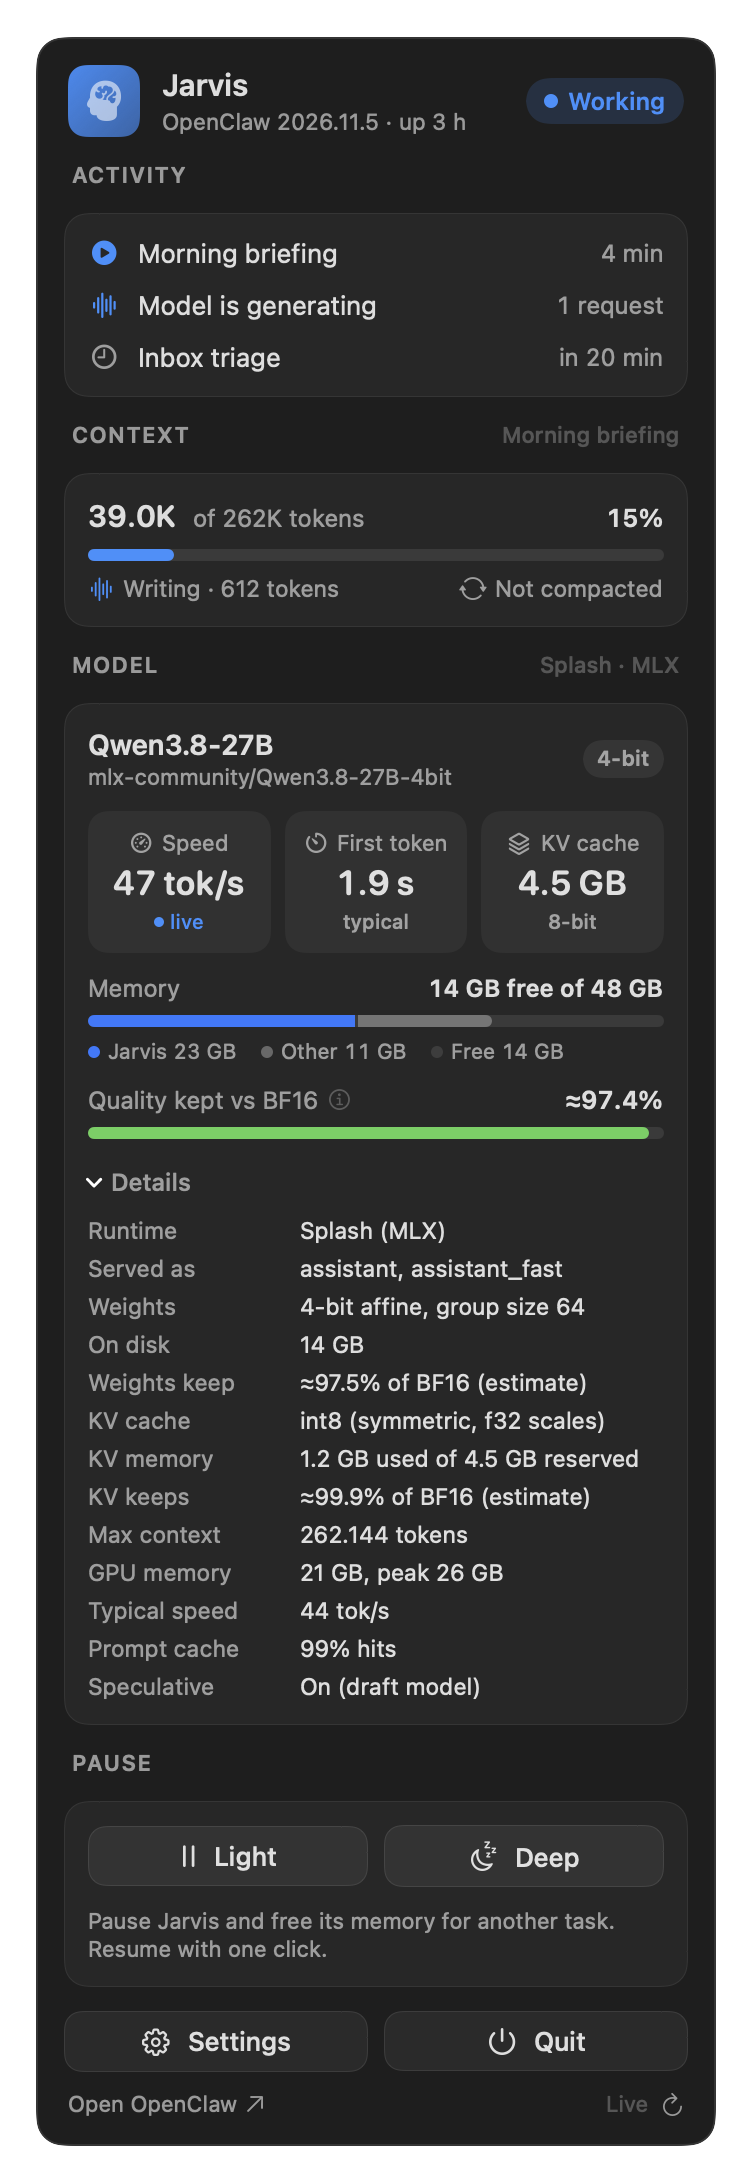
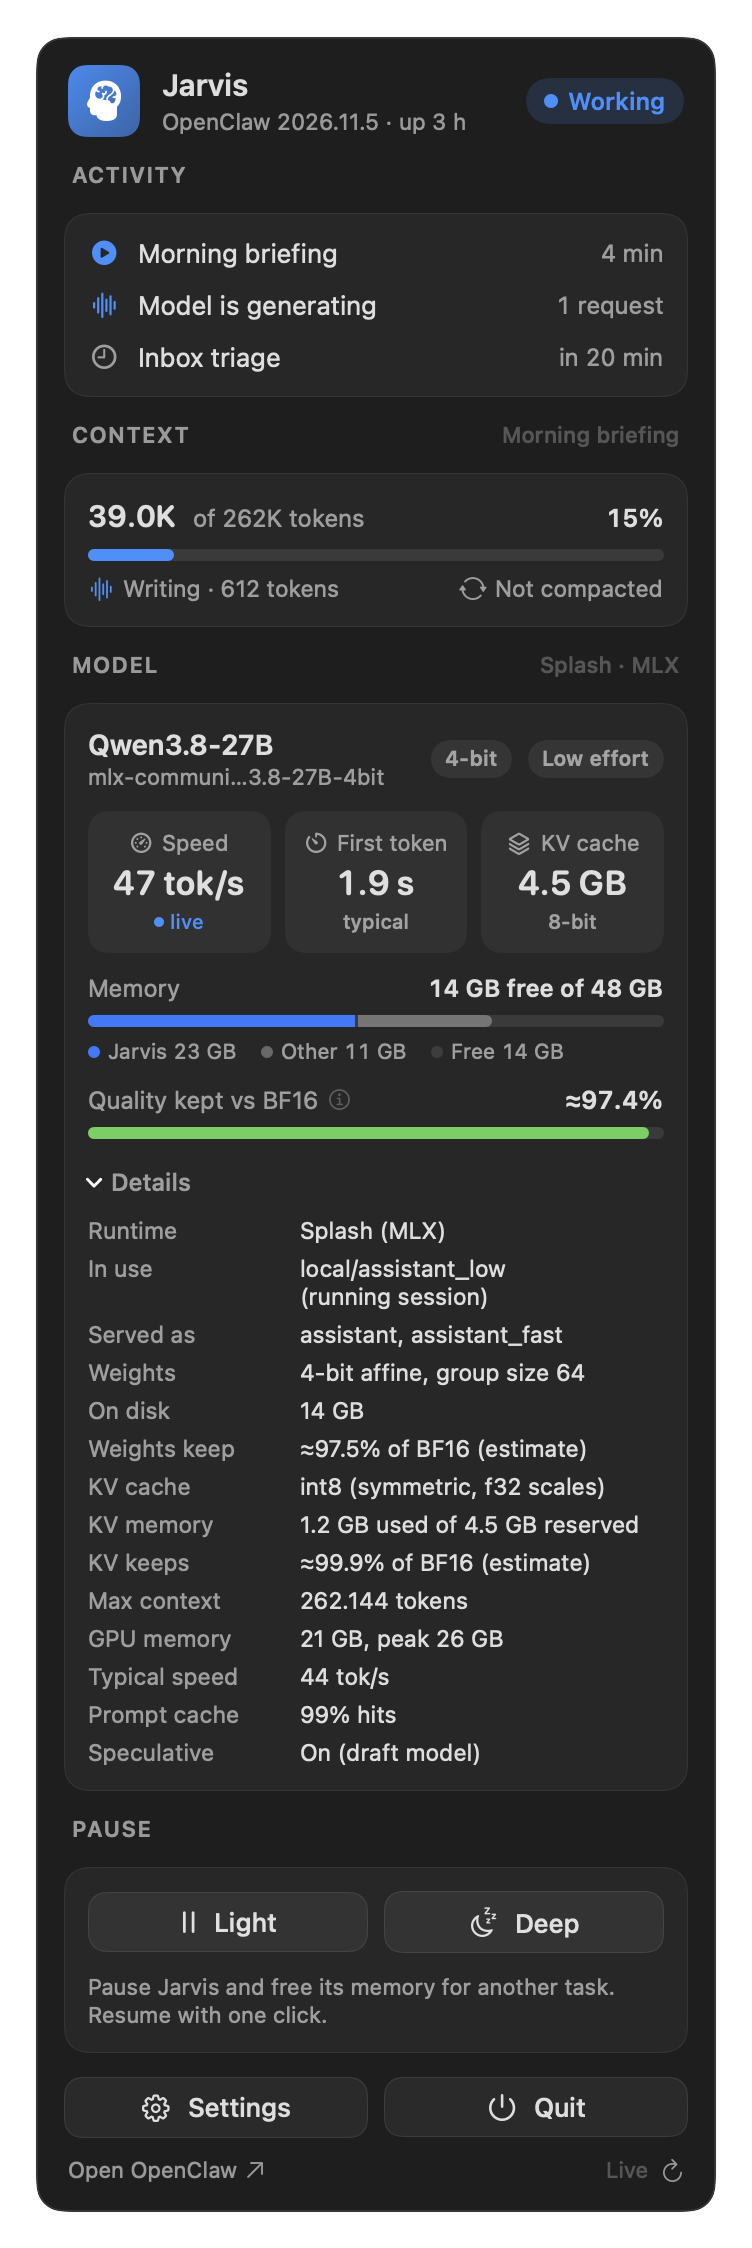
Show the model in use and its thinking effort

diff --git a/Sources/Live.swift b/Sources/Live.swift
@@ -13,6 +13,9 @@ struct SessionInfo {
     let contextTokens: Double?   // the session's context window
     let compactions: Int
     let updatedAt: Date
+    var model: String? = nil       // the alias OpenClaw asked for, e.g. "jarvis_flash_high"
+    var provider: String? = nil    // e.g. "splash-flash"
+    var thinking: String? = nil    // effort: off, minimal, low, medium, high, xhigh
 }
 
 /// Where OpenClaw keeps the agent's session store. Asked once from `openclaw sessions --json` (its "path"),
@@ -55,7 +58,9 @@ func readSessions(_ path: String, limit: Int = 30) -> [SessionInfo]? {
                                totalTokens: fresh ? num(j(entry, "totalTokens")) : nil,
                                contextTokens: num(j(entry, "contextTokens")),
                                compactions: Int(num(j(entry, "compactionCount")) ?? 0),
-                               updatedAt: Date(timeIntervalSince1970: updated)))
+                               updatedAt: Date(timeIntervalSince1970: updated),
+                               model: j(entry, "model") as? String, provider: j(entry, "modelProvider") as? String,
+                               thinking: j(entry, "thinkingLevel") as? String))
     }
     return out
 }
@@ -95,6 +100,31 @@ func formatTokens(_ t: Double) -> String {
     if t >= 100_000 { return String(format: "%.0fK", t / 1000) }
     if t >= 1000 { return String(format: "%.1fK", t / 1000) }
     return String(Int(t))
+}
+
+/// Which model is in use and at what effort: the running session's model and thinking level, else the
+/// default model and OpenClaw's default thinking level.
+struct ActiveModel {
+    let alias: String?         // "provider/model" as OpenClaw names it
+    let baseURL: String?
+    let effort: String?
+    let fromSession: Bool
+}
+
+func activeModel(_ sessions: [SessionInfo], _ r: Resolved) -> ActiveModel {
+    if let s = sessions.first(where: { $0.running }), let p = s.provider, let m = s.model {
+        return ActiveModel(alias: "\(p)/\(m)", baseURL: r.providers[p] ?? r.providerBaseURL,
+                           effort: s.thinking ?? r.thinkingDefault, fromSession: true)
+    }
+    return ActiveModel(alias: r.primaryModel, baseURL: r.providerBaseURL, effort: r.thinkingDefault, fromSession: false)
+}
+
+func effortLabel(_ e: String) -> String {
+    switch e.lowercased() {
+    case "off", "none": return "Thinking off"
+    case "xhigh": return "XHigh effort"
+    default: return e.prefix(1).uppercased() + e.dropFirst() + " effort"
+    }
 }
 
 // MARK: - Mac memory

diff --git a/Sources/CLI.swift b/Sources/CLI.swift
@@ -6,15 +6,17 @@ func probeOnce(_ r: Resolved, sampleSpeed: Bool = true) -> Snapshot {
     var s = Snapshot()
     s.gateway = probeGateway(r.gatewayURL, withReadiness: true)
     s.activity = s.gateway.live ? probeActivity(cli: r.cli, env: r.cliEnv) : ActivityStatus()
-    s.model = probeModel(baseURL: r.providerBaseURL, configuredModel: r.primaryModel)
+    if s.gateway.live, let path = sessionStorePath(cli: r.cli, env: r.cliEnv) { s.sessions = readSessions(path) ?? [] }
+    let active = activeModel(s.sessions, r)
+    s.active = active
+    s.model = probeModel(baseURL: active.baseURL, configuredModel: active.alias)
     s.offload = readOffloadState(r.pauseMarker)
     s.memory = systemMemory()
-    if s.gateway.live, let path = sessionStorePath(cli: r.cli, env: r.cliEnv) { s.sessions = readSessions(path) ?? [] }
     s.updatedAt = Date()
     if sampleSpeed && s.model.requests.contains(where: { $0.phase == "decode" }) {
         Thread.sleep(forTimeInterval: 1)
         var next = s
-        next.model = probeModel(baseURL: r.providerBaseURL, configuredModel: r.primaryModel)
+        next.model = probeModel(baseURL: active.baseURL, configuredModel: active.alias)
         next.updatedAt = Date()
         next.liveTokensPerSecond = liveSpeed(previous: s, current: next)
         s = next
@@ -54,6 +56,11 @@ func statusJSON(name: String, kind: Kind, _ s: Snapshot, offloadConfigured: Bool
     let m = s.model
     var model: [String: Any] = ["reachable": m.reachable, "runtime": m.runtime, "activeRequests": m.activeRequests]
     if let id = m.modelID { model["id"] = id }
+    if let a = s.active {
+        if let alias = a.alias { model["requestedAs"] = alias }
+        if let e = a.effort { model["effort"] = e }
+        model["activeFromSession"] = a.fromSession
+    }
     if !m.servedNames.isEmpty { model["servedAs"] = m.servedNames }
     var weights: [String: Any] = [:]
     if let l = m.weightsLabel { weights["label"] = l }
@@ -139,6 +146,7 @@ func statusText(name: String, kind: Kind, _ s: Snapshot, offloadConfigured: Bool
     out.append("Model")
     if m.reachable {
         out.append("  \(m.modelID ?? "unknown") · \(m.runtime)\(m.activeRequests > 0 ? " · generating" : "")")
+        if let a = s.active { out.append("  In use: \(a.alias ?? "default")" + (a.effort.map { " · \(effortLabel($0).lowercased())" } ?? "")) }
         var w = "  Weights: \(m.weightsLabel ?? "quantization unknown")"
         if let d = m.weightsOnDisk { w += " · \(formatBytes(d)) on disk" }
         out.append(w)

diff --git a/Sources/Panel.swift b/Sources/Panel.swift
@@ -166,7 +166,8 @@ struct PanelView: View {
                 InfoRow(icon: m.modelID == nil ? "questionmark.circle" : "cloud",
                         title: m.modelID.map(shortModelName) ?? "No local model found")
                 Text(m.modelID == nil ? "Looking for the model server of your default OpenClaw model."
-                                      : "Model server: \(m.runtime)")
+                     : (store.snap.active?.fromSession == true ? "Not loaded right now; it loads when the next request arrives."
+                                                               : "Model server: \(m.runtime)"))
                     .font(.system(size: 11)).foregroundStyle(.secondary).fixedSize(horizontal: false, vertical: true)
                 memoryRow(m)
             } else {
@@ -180,6 +181,7 @@ struct PanelView: View {
                     }
                     Spacer(minLength: 4)
                     if let b = m.weightsBits { Badge(text: b >= 16 ? "BF16" : "\(Int(b))-bit") }
+                    if let e = store.snap.active?.effort { Badge(text: effortLabel(e)).help("Thinking effort of the model in use") }
                     if let note = m.note { Badge(text: note) }
                 }
                 HStack(spacing: 7) {
@@ -253,6 +255,9 @@ struct PanelView: View {
 
     @ViewBuilder private func detailRows(_ m: ModelStatus) -> some View {
         DetailRow(label: "Runtime", value: m.runtime)
+        if let a = store.snap.active?.alias {
+            DetailRow(label: "In use", value: a + (store.snap.active?.fromSession == true ? " (running session)" : " (default)"))
+        }
         if !m.servedNames.isEmpty { DetailRow(label: "Served as", value: m.servedNames.joined(separator: ", ")) }
         DetailRow(label: "Weights", value: m.weightsLabel ?? "unknown")
         if let d = m.weightsOnDisk { DetailRow(label: "On disk", value: formatBytes(d)) }

diff --git a/Sources/Config.swift b/Sources/Config.swift
@@ -92,6 +92,10 @@ struct Resolved {
     let providerBaseURL: String?     // e.g. http://127.0.0.1:8000/v1
     let dashboard: [String]?
     let offload: OffloadConfig?
+    /// provider id -> baseUrl, from openclaw.json (several local models can sit behind one router).
+    let providers: [String: String]
+    /// agents.defaults.thinkingDefault: the effort used when a session does not set its own.
+    let thinkingDefault: String?
 
     var offloadConfigured: Bool { offload?.light != nil || offload?.deep != nil || offload?.restore != nil }
 
@@ -128,13 +132,19 @@ struct Resolved {
         let cli = cliCandidates.first { fm.isExecutableFile(atPath: $0) }
         let dashboard = (c.dashboardCommand?.isEmpty == false ? c.dashboardCommand : nil) ?? cli.map { [$0, "dashboard"] }
 
+        var providers: [String: String] = [:]
+        for (id, v) in (j(oc, "models", "providers") as? [String: Any]) ?? [:] {
+            if let u = j(v, "baseUrl") as? String { providers[id] = u }
+        }
+        let thinking = j(oc, "agents", "defaults", "thinkingDefault") as? String
+
         return Resolved(name: blank(c.name) ?? "Jarvis",
                         refreshSeconds: min(max(c.refreshSeconds ?? 1, 1), 3600),
                         menuBarText: c.menuBarText ?? false,
                         checkForUpdates: c.checkForUpdates ?? true,
                         gatewayURL: (gateway ?? "http://127.0.0.1:18789").trimmingCharacters(in: CharacterSet(charactersIn: "/")),
                         cli: cli, openclawConfigPath: cfgPath, primaryModel: primary, providerBaseURL: base,
-                        dashboard: dashboard, offload: c.offload)
+                        dashboard: dashboard, offload: c.offload, providers: providers, thinkingDefault: thinking)
     }
 
     /// Environment for CLI calls, so a non-default OpenClaw config is honoured.

diff --git a/Sources/Store.swift b/Sources/Store.swift
@@ -7,6 +7,7 @@ struct Snapshot {
     var model = ModelStatus()
     var offload = OffloadState()
     var sessions: [SessionInfo] = []
+    var active: ActiveModel?
     var memory: SystemMemory?
     /// Tokens per second measured between the last two refreshes while the model was writing.
     var liveTokensPerSecond: Double?
@@ -210,11 +211,13 @@ final class Store: ObservableObject {
             s.gateway = probeGateway(cfg.gatewayURL, withReadiness: wantReady)
             if !wantReady { s.gateway.ready = previous.gateway.ready; s.gateway.failing = previous.gateway.failing }
             if wantJobs { s.activity = s.gateway.live ? probeActivity(cli: cfg.cli, env: cfg.cliEnv) : ActivityStatus() }
-            s.model = probeModel(baseURL: cfg.providerBaseURL, configuredModel: cfg.primaryModel)
-            s.offload = readOffloadState(cfg.pauseMarker)
-            s.memory = systemMemory()
             if wantStore, s.gateway.live { storePath = sessionStorePath(cli: cfg.cli, env: cfg.cliEnv) }
             s.sessions = storePath.flatMap { readSessions($0) } ?? []
+            let active = activeModel(s.sessions, cfg)
+            s.active = active
+            s.model = probeModel(baseURL: active.baseURL, configuredModel: active.alias)
+            s.offload = readOffloadState(cfg.pauseMarker)
+            s.memory = systemMemory()
             s.updatedAt = Date()
             s.liveTokensPerSecond = liveSpeed(previous: previous, current: s)
             let latest = wantUpdate ? latestReleaseTag(repo: repoSlug) : nil

diff --git a/Sources/Showcase.swift b/Sources/Showcase.swift
@@ -48,6 +48,7 @@ func demoSnapshot() -> Snapshot {
                     contextTokens: 262_144, compactions: 1, updatedAt: now.addingTimeInterval(-600)),
     ]
     s.memory = SystemMemory(total: 51_539_607_552, used: 36.4e9)
+    s.active = ActiveModel(alias: "local/assistant_low", baseURL: nil, effort: "low", fromSession: true)
     s.updatedAt = now
     return s
 }

diff --git a/README.md b/README.md
@@ -19,7 +19,8 @@ with [OpenClaw](https://docs.openclaw.ai) and a local model. Click the icon and 
   reading the prompt or writing, and whether the conversation has been compacted.
 - **How fast, and at what cost?** Live tokens per second, time to first token, and your Mac's memory split
   into the assistant, other apps and what is still free.
-- **What exactly is loaded?** The model, its weight and KV-cache quantization, and an estimate of how much
+- **What exactly is loaded?** The model in use right now and its thinking effort (also with several
+  models behind one router), its weight and KV-cache quantization, and an estimate of how much
   quality that quantization keeps compared with the full BF16 model.
 - **Need the memory back?** Pause the assistant for a render or another big job, then resume it in one click.
 

diff --git a/CHANGELOG.md b/CHANGELOG.md
@@ -1,5 +1,12 @@
 # Changelog
 
+## 0.4.0 (2026-11-19)
+- Shows the model actually in use and its thinking effort (Thinking off, Low, Medium, High, XHigh).
+  Both come from the running OpenClaw session (its provider, model alias and thinking level), so setups
+  with several local models behind one router, such as a dense model plus a Flash model, show the right one.
+- A model that loads on demand says so instead of looking broken.
+- `--status --json` adds `model.requestedAs`, `model.effort` and `model.activeFromSession`.
+
 ## 0.3.0 (2026-11-19)
 - Live by default: the status refreshes every second (adjustable from 1 second to 15 minutes).
 - New Context section: tokens in use out of the context window for the conversation the assistant is

diff --git a/AGENTS.md b/AGENTS.md
@@ -12,7 +12,8 @@ A native macOS menu-bar app (Swift, MIT) for someone running their own AI assist
 - the scheduled jobs running now, the next one, and failed ones
 - the active context window (tokens used out of the window, reading or writing) and whether the
   conversation has been compacted
-- the model: id, runtime, weight and KV-cache quantization, live tokens per second, time to first token,
+- the model in use (taken from the running OpenClaw session, so several models behind one router work) and
+  its thinking effort; id, runtime, weight and KV-cache quantization, live tokens per second, time to first token,
   and an estimated quality kept versus BF16
 - Mac memory: the assistant's share, other apps and free, out of total RAM
 
